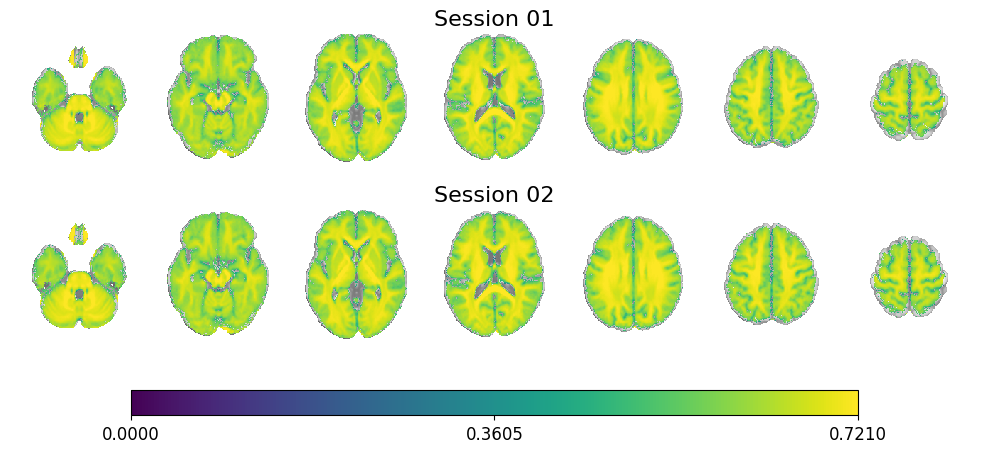
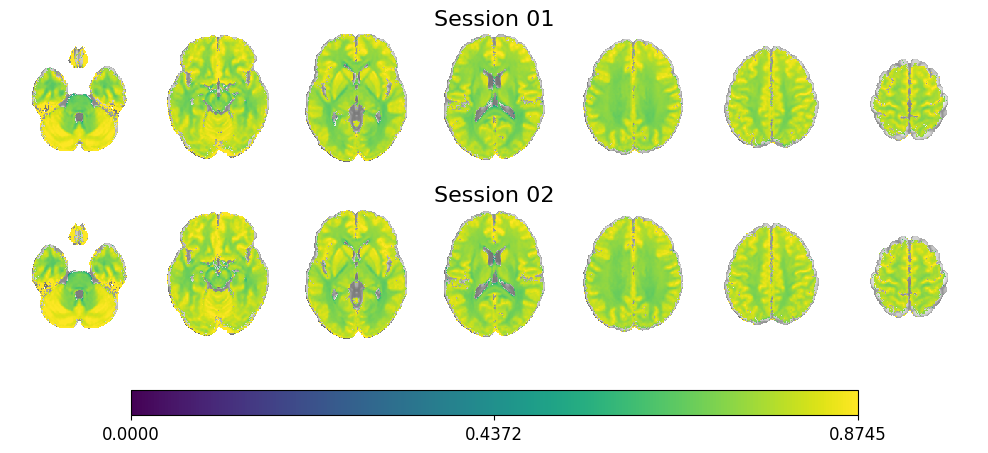
Update g-ratio maps.

diff --git a/analysis/generate_correlation_matrices.py b/analysis/generate_correlation_matrices.py
@@ -108,8 +108,8 @@ if __name__ == "__main__":
         },
         # G-Ratio
         "G-Ratio": {
-            "G-MPRAGE-MyelinW": "g_ratio/sub-{subject}/ses-01/anat/*_space-MNI152NLin2009cAsym_desc-MPRAGET1wT2w+ISOVF+ICVF_gratio.nii.gz",
-            "G-SPACE-MyelinW": "g_ratio/sub-{subject}/ses-01/anat/*_space-MNI152NLin2009cAsym_desc-SPACET1wT2w+ISOVF+ICVF_gratio.nii.gz",
+            #"G-MPRAGE-MyelinW": "g_ratio/sub-{subject}/ses-01/anat/*_space-MNI152NLin2009cAsym_desc-MPRAGET1wT2w+ISOVF+ICVF_gratio.nii.gz",
+            #"G-SPACE-MyelinW": "g_ratio/sub-{subject}/ses-01/anat/*_space-MNI152NLin2009cAsym_desc-SPACET1wT2w+ISOVF+ICVF_gratio.nii.gz",
             "G-ihMTsat": "g_ratio/sub-{subject}/ses-01/anat/*_space-MNI152NLin2009cAsym_desc-MTsat+ISOVF+ICVF_gratio.nii.gz",
             "G-ihMTR": "g_ratio/sub-{subject}/ses-01/anat/*_space-MNI152NLin2009cAsym_desc-ihMTR+ISOVF+ICVF_gratio.nii.gz",
         },

diff --git a/analysis/plot_correlation_matrices.py b/analysis/plot_correlation_matrices.py
@@ -97,8 +97,8 @@ if __name__ == "__main__":
         },
         # G-Ratio
         "G-Ratio": {
-            "G-MPRAGE-MyelinW": "g_ratio/sub-{subject}/ses-01/anat/*_space-MNI152NLin2009cAsym_desc-MPRAGET1wT2w+ISOVF+ICVF_gratio.nii.gz",
-            "G-SPACE-MyelinW": "g_ratio/sub-{subject}/ses-01/anat/*_space-MNI152NLin2009cAsym_desc-SPACET1wT2w+ISOVF+ICVF_gratio.nii.gz",
+            #"G-MPRAGE-MyelinW": "g_ratio/sub-{subject}/ses-01/anat/*_space-MNI152NLin2009cAsym_desc-MPRAGET1wT2w+ISOVF+ICVF_gratio.nii.gz",
+            #"G-SPACE-MyelinW": "g_ratio/sub-{subject}/ses-01/anat/*_space-MNI152NLin2009cAsym_desc-SPACET1wT2w+ISOVF+ICVF_gratio.nii.gz",
             "G-ihMTsat": "g_ratio/sub-{subject}/ses-01/anat/*_space-MNI152NLin2009cAsym_desc-MTsat+ISOVF+ICVF_gratio.nii.gz",
             "G-ihMTR": "g_ratio/sub-{subject}/ses-01/anat/*_space-MNI152NLin2009cAsym_desc-ihMTR+ISOVF+ICVF_gratio.nii.gz",
         },
